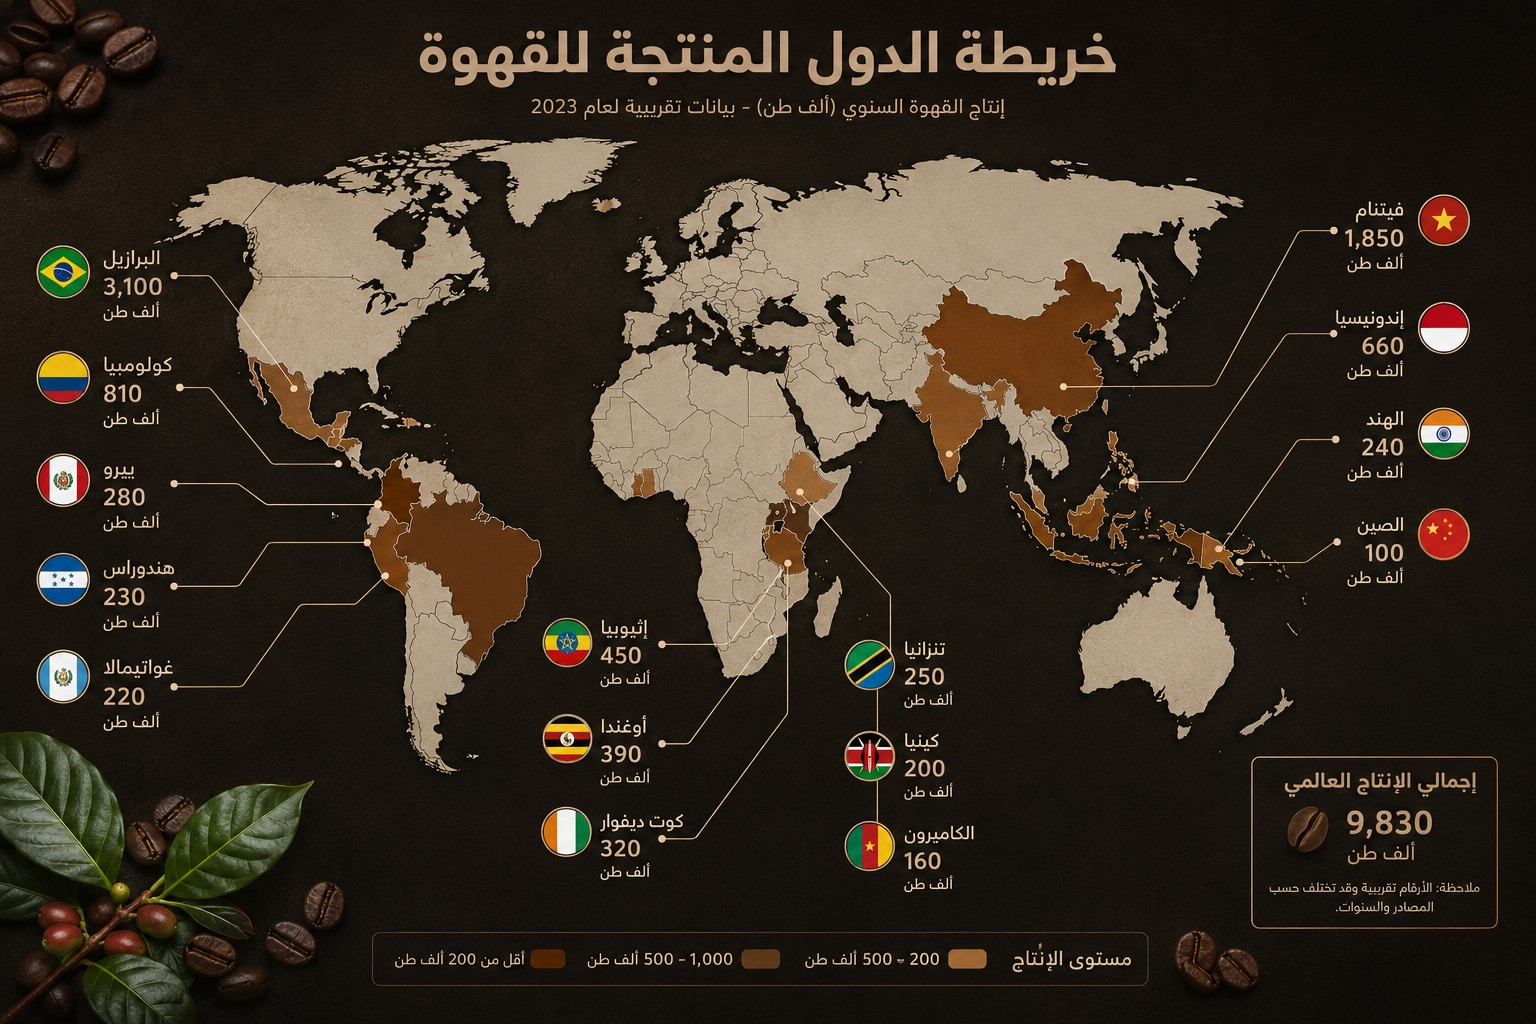
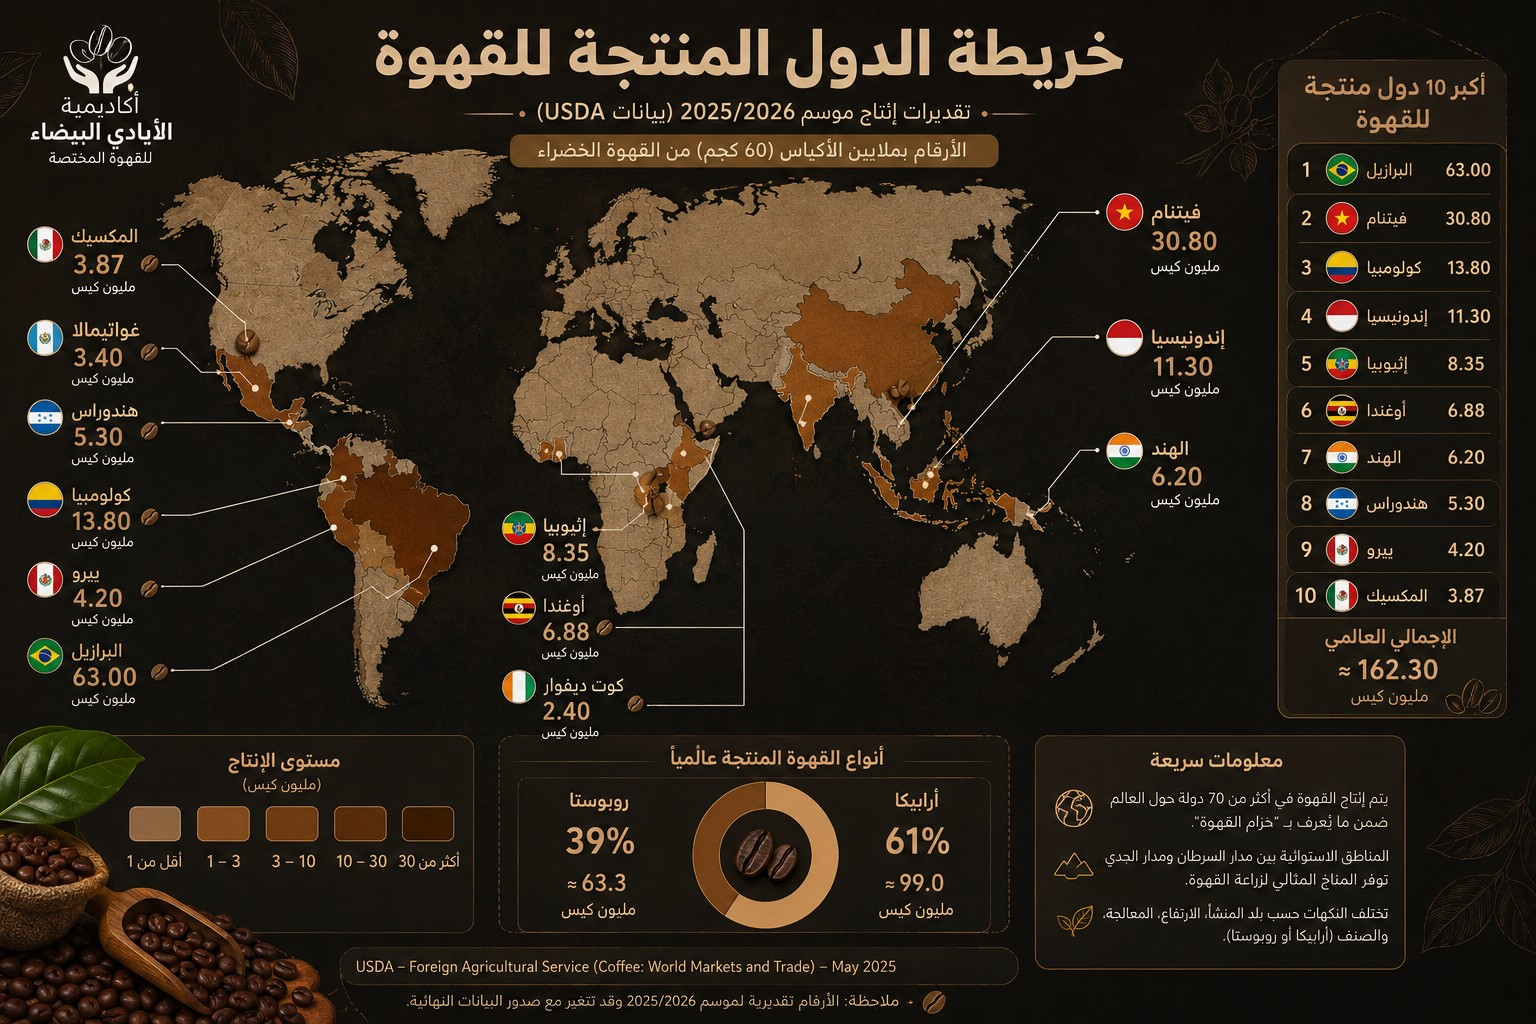
Add user's processing_methods image to C2-0 + update coffee_map to v2

diff --git a/academy-script.js b/academy-script.js
@@ -597,7 +597,7 @@ const PHOTOS={
     affogato:'photo-1509042239860-f550ce710b93'
   };
 // Local image path builder — checks images/ folder first, falls back to Unsplash
-const LOCAL_IMGS=new Set(['A0','A1','A2','A3','aerial','affogato','aroma','B1','B2','B3','barista','barista_work','beans','beans_tree','blossom','brew','C1','C2','C3','cafe','cappuccino','chemex','cherry','coffee_bags','coffee_map','coffee_shop','coffee_story','coffee_timeline','coldbrew','comparison','cortado','cup','cupping','espresso','espresso_gen','espresso_mod','espresso_success','ethiopian','ethiopian_ceremony','farm','filter','flatwhite','fresh_roast','grinder','harvest','j0','j1','j10','j2','j3','j4','j5','j6','j7','j8','j9','journey','kaldy','kaldy_monk','lab','latte','macchiato','map','mecca_cafe','mocha_drink','moka','ottoman_cafe','plantation','processing','roast','roastery','sustainability','team','turkish','turkish_cup','turkish_delight','v60','water']);
+const LOCAL_IMGS=new Set(['A0','A1','A2','A3','aerial','affogato','aroma','B1','B2','B3','barista','barista_work','beans','beans_tree','blossom','brew','C1','C2','C3','cafe','cappuccino','chemex','cherry','coffee_bags','coffee_map','coffee_shop','coffee_story','coffee_timeline','coldbrew','comparison','cortado','cup','cupping','espresso','espresso_gen','espresso_mod','espresso_success','ethiopian','ethiopian_ceremony','farm','filter','flatwhite','fresh_roast','grinder','harvest','j0','j1','j10','j2','j3','j4','j5','j6','j7','j8','j9','journey','kaldy','kaldy_monk','lab','latte','macchiato','map','mecca_cafe','mocha_drink','moka','ottoman_cafe','plantation','processing','processing_methods','roast','roastery','sustainability','team','turkish','turkish_cup','turkish_delight','v60','water']);
 function imgPath(key,w=600,q=80){
   if(LOCAL_IMGS.has(key)) return 'images/'+key+'.jpg';
   let id=PHOTOS[key]||'photo-1509042239860-f550ce710b93';
@@ -1084,7 +1084,7 @@ L['C1-2'] = {ar:`<h3>📊 بروتوكول SCA للتقييم — من 0 إلى 
 
 L['C2-0'] = {ar:`<h3>🫘 المعالجة الطبيعية (Natural) — أقدم تقنية في التاريخ</h3>
 <p>المعالجة الطبيعية هي <strong>أقدم طريقة لمعالجة البن</strong>، استُخدمت في إثيوبيا واليمن منذ قرون دون تغيير جوهري. اسمها الآخر: <strong>Dry Process</strong>. الفكرة بسيطة: تجفف الثمرة كاملة — بقشرتها ولبها — تحت أشعة الشمس.</p>
-<div class="img-c"><img src="${photo('beans_tree')}" alt="" loading="lazy"><div class="cap">🫘 المعالجة الطبيعية — أبسط طرق تحضير البن</div></div>
+<div class="img-c"><img src="${photo('processing_methods')}" alt="" loading="lazy"><div class="cap">🫘 طرق معالجة البن — من الطبيعية إلى التجريبية</div></div>
 <h3>🔬 خطوات المعالجة الطبيعية</h3>
 <ol><li><strong>القطف:</strong> تقطف الكرزات الحمراء الناضجة فقط (يدوياً أو ميكانيكياً)</li>
 <li><strong>الفرز:</strong> تطفو الكرزات في الماء — الكرزات الناضجة تغوص، غير الناضجة تطفو (تُرفض)</li>
@@ -1098,7 +1098,7 @@ L['C2-0'] = {ar:`<h3>🫘 المعالجة الطبيعية (Natural) — أقد
 <div class="err-box"><strong>❌ خطأ شائع:</strong> ظن أن المعالجة الطبيعية أسهل من المغسولة. الحقيقة: المعالجة الطبيعية تتطلب مهارة عالية في التحكم بعملية التجفيف — خطأ بسيط يسبب تعفن الكرزات بالكامل.</div>
 <div class="ok-box"><strong>🎯 نشاط:</strong> اشتر بناً طبيعياً ومغسولاً من نفس الأصل (مثلاً: إثيوبي ييرغاشيفي طبيعي ومغسول). حضّر بنفس الطريقة وتذوق الفرق. الطبيعي سيكون أحلى وأفاكهي، المغسول أنظف وأزهري.</div>`, en:`<h3>🫘 Natural Processing — The Oldest Technique in History</h3>
 <p>Natural processing is the <strong>oldest coffee processing method</strong>, used in Ethiopia and Yemen for centuries without fundamental change. Also called <strong>Dry Process</strong>. The idea is simple: dry the whole cherry — skin, pulp and all — under the sun.</p>
-<div class="img-c"><img src="${photo('beans_tree')}" alt="" loading="lazy"><div class="cap">🫘 Natural Processing — The Simplest Coffee Preparation Method</div></div>
+<div class="img-c"><img src="${photo('processing_methods')}" alt="" loading="lazy"><div class="cap">🫘 Coffee Processing Methods — From Natural to Experimental</div></div>
 <h3>🔬 Natural Processing Steps</h3>
 <ol><li><strong>Harvest:</strong> Pick only ripe red cherries (hand or machine)</li>
 <li><strong>Sorting:</strong> Float cherries in water — ripe ones sink, unripe float (rejected)</li>

diff --git a/sw.js b/sw.js
@@ -7,7 +7,7 @@ const FILES = [
   'manifest.json'
 ];
 const LOCAL_IMGS = [
-  'A0','A1','A2','A3','aerial','affogato','aroma','B1','B2','B3','barista','barista_work','beans','beans_tree','blossom','brew','C1','C2','C3','cafe','cappuccino','chemex','cherry','coffee_bags','coffee_map','coffee_shop','coffee_story','coffee_timeline','coldbrew','comparison','cortado','cup','cupping','espresso','espresso_gen','espresso_mod','espresso_success','ethiopian','ethiopian_ceremony','farm','filter','flatwhite','fresh_roast','grinder','harvest','j0','j1','j10','j2','j3','j4','j5','j6','j7','j8','j9','journey','kaldy','kaldy_monk','lab','latte','macchiato','map','mecca_cafe','mocha_drink','moka','ottoman_cafe','plantation','processing','roast','roastery','sustainability','team','turkish','turkish_cup','turkish_delight','v60','water'
+  'A0','A1','A2','A3','aerial','affogato','aroma','B1','B2','B3','barista','barista_work','beans','beans_tree','blossom','brew','C1','C2','C3','cafe','cappuccino','chemex','cherry','coffee_bags','coffee_map','coffee_shop','coffee_story','coffee_timeline','coldbrew','comparison','cortado','cup','cupping','espresso','espresso_gen','espresso_mod','espresso_success','ethiopian','ethiopian_ceremony','farm','filter','flatwhite','fresh_roast','grinder','harvest','j0','j1','j10','j2','j3','j4','j5','j6','j7','j8','j9','journey','kaldy','kaldy_monk','lab','latte','macchiato','map','mecca_cafe','mocha_drink','moka','ottoman_cafe','plantation','processing','processing_methods','roast','roastery','sustainability','team','turkish','turkish_cup','turkish_delight','v60','water'
 ];
 const ALL_ASSETS = [...FILES, ...LOCAL_IMGS.map(k => 'images/'+k+'.jpg')];
 